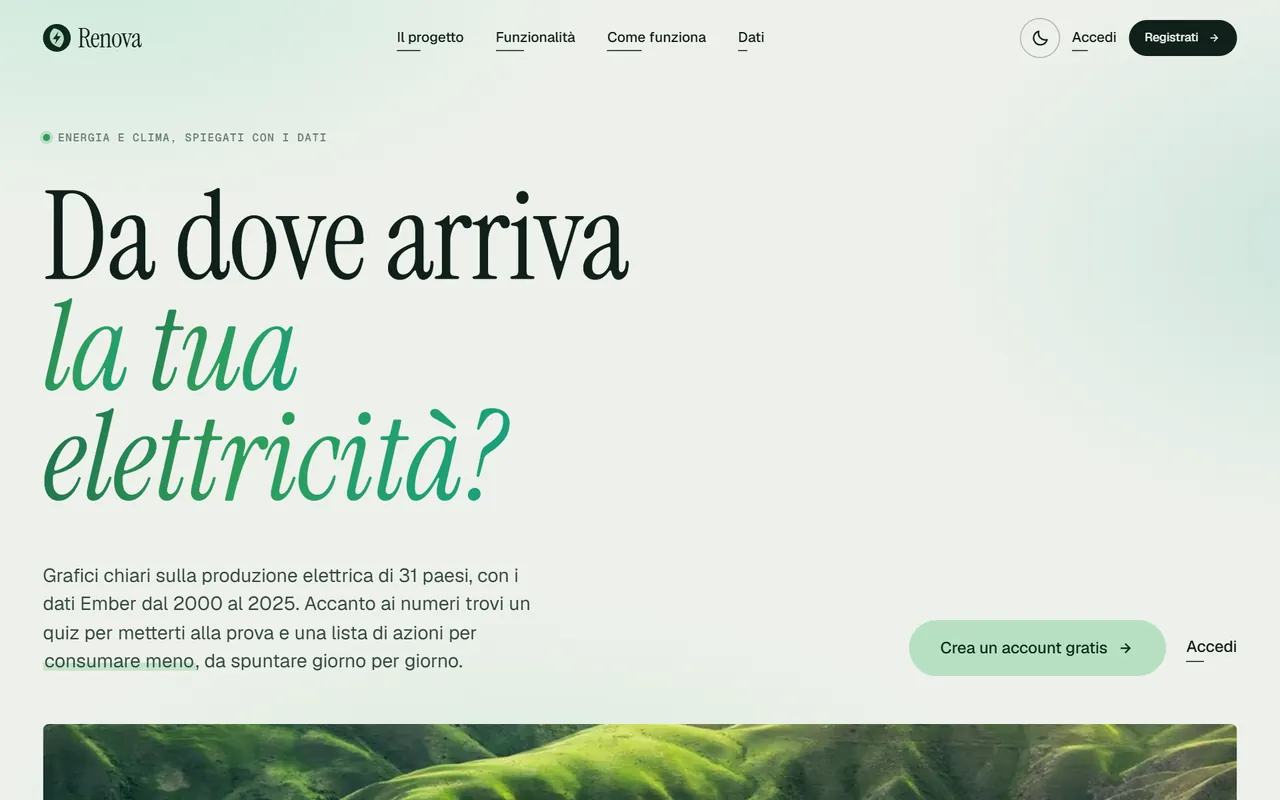
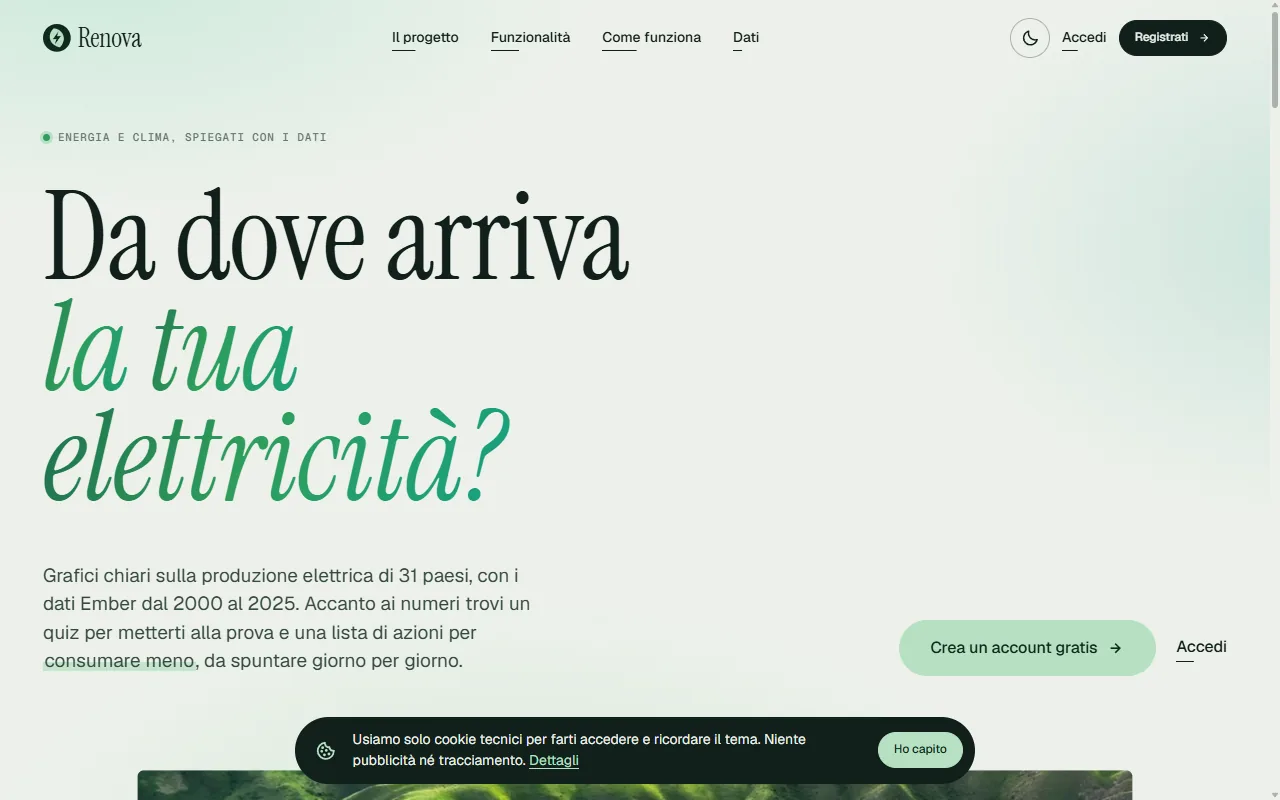
Aggiorna screenshot di Renova e aggiunge il link di LogLens al CV

diff --git a/index.html b/index.html
@@ -90,7 +90,7 @@
         <a class="btn btn-primary magnetic" href="#progetti">Progetti
           <svg viewBox="0 0 24 24" fill="none" stroke="currentColor" stroke-width="2" stroke-linecap="round" stroke-linejoin="round" aria-hidden="true"><path d="M12 5v14M6 13l6 6 6-6"/></svg>
         </a>
-        <a class="btn magnetic" href="assets/CV-Giacomo-Negri.pdf?v=2026-11-02a" target="_blank" rel="noopener" aria-label="Guarda il CV in anteprima">
+        <a class="btn magnetic" href="assets/CV-Giacomo-Negri.pdf?v=2026-11-02b" target="_blank" rel="noopener" aria-label="Guarda il CV in anteprima">
           <svg viewBox="0 0 24 24" fill="none" stroke="currentColor" stroke-width="2" stroke-linecap="round" stroke-linejoin="round" aria-hidden="true"><path d="M2 12s3.5-7 10-7 10 7 10 7-3.5 7-10 7S2 12 2 12Z"/><circle cx="12" cy="12" r="3"/></svg>CV
         </a>
         <a class="btn magnetic" href="https://github.com/jacknegri89" target="_blank" rel="noopener" aria-label="GitHub">
@@ -151,7 +151,7 @@
         </div>
         <a class="window" href="https://renovaenergy.vercel.app" target="_blank" rel="noopener" data-cursor="Apri" aria-label="renovaenergy.vercel.app, apri Renova">
           <div class="win-bar"><i></i><i></i><i></i><span>renovaenergy.vercel.app</span></div>
-          <img class="win-shot" src="assets/renova.webp?v=2026-10-08" alt="Pagina principale di Renova: titolo «Da dove arriva la tua elettricità?» e pulsante per creare un account" width="1280" height="800" loading="lazy" decoding="async">
+          <img class="win-shot" src="assets/renova.webp?v=2026-11-02" alt="Pagina principale di Renova: titolo «Da dove arriva la tua elettricità?» e pulsante per creare un account" width="1280" height="800" loading="lazy" decoding="async">
         </a>
       </article>
 
@@ -393,10 +393,10 @@
         </div>
       </div>
       <div class="contact-cta">
-        <a class="btn btn-primary magnetic" href="assets/CV-Giacomo-Negri.pdf?v=2026-11-02a" target="_blank" rel="noopener">
+        <a class="btn btn-primary magnetic" href="assets/CV-Giacomo-Negri.pdf?v=2026-11-02b" target="_blank" rel="noopener">
           <svg viewBox="0 0 24 24" fill="none" stroke="currentColor" stroke-width="2" stroke-linecap="round" stroke-linejoin="round" aria-hidden="true"><path d="M2 12s3.5-7 10-7 10 7 10 7-3.5 7-10 7S2 12 2 12Z"/><circle cx="12" cy="12" r="3"/></svg>Guarda il CV
         </a>
-        <a class="btn magnetic" href="assets/CV-Giacomo-Negri.pdf?v=2026-11-02a" download="CV-Giacomo-Negri.pdf">
+        <a class="btn magnetic" href="assets/CV-Giacomo-Negri.pdf?v=2026-11-02b" download="CV-Giacomo-Negri.pdf">
           <svg viewBox="0 0 24 24" fill="none" stroke="currentColor" stroke-width="2" stroke-linecap="round" stroke-linejoin="round" aria-hidden="true"><path d="M12 3v12M7 10l5 5 5-5M5 21h14"/></svg>Scarica il CV
         </a>
       </div>

diff --git a/404.html b/404.html
@@ -53,7 +53,7 @@
       <svg viewBox="0 0 24 24" fill="none" stroke="currentColor" stroke-width="2" stroke-linecap="round" stroke-linejoin="round" aria-hidden="true"><path d="M5 12h14M13 6l6 6-6 6"/></svg>
     </a>
     <a class="btn" href="/#progetti">Vedi i progetti</a>
-    <a class="btn" href="assets/CV-Giacomo-Negri.pdf?v=2026-11-02a" target="_blank" rel="noopener">Scarica il CV</a>
+    <a class="btn" href="assets/CV-Giacomo-Negri.pdf?v=2026-11-02b" target="_blank" rel="noopener">Scarica il CV</a>
   </div>
   <p class="nf-path"><b>giacomonegri</b> / 404</p>
 </main>
